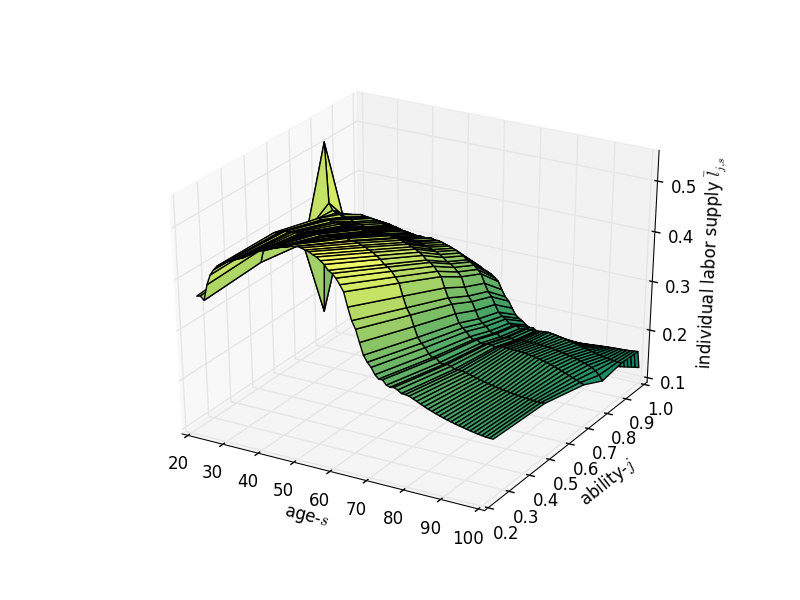
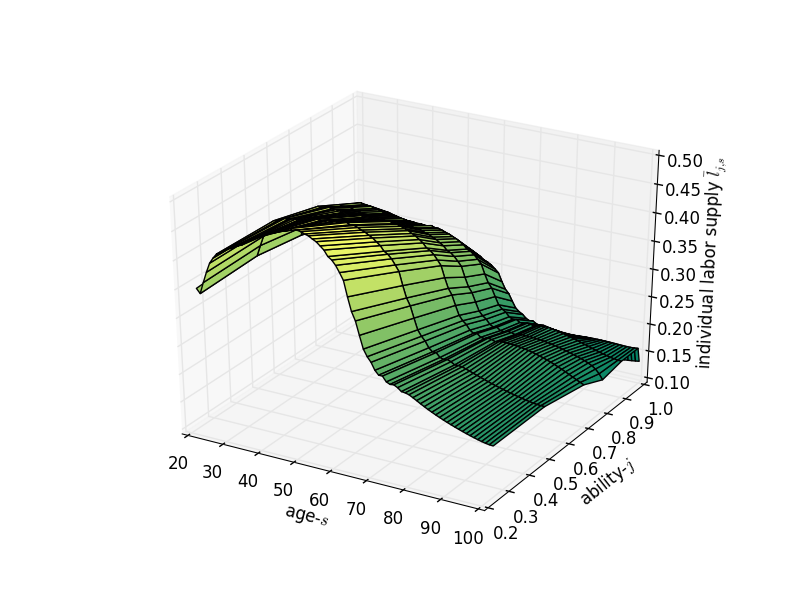
created labor comparison chart

Changed region(s): [[0.25, 0.24, 0.875, 0.75], [0.8125, 0.24, 0.875, 0.42]]

diff --git a/Python/OUTPUT/Nothing/graph_labdist.py b/Python/OUTPUT/Nothing/graph_labdist.py
@@ -13,6 +13,10 @@ variables = pickle.load(open("initial_guesses_for_SS.pkl", "r"))
 for key in variables:
     globals()[key] = variables[key]
 
+variables = pickle.load(open("labor_data_moments.pkl", "r"))
+for key in variables:
+    globals()[key] = variables[key]
+
 Kssmat = solutions[:S*J].reshape(S, J)
 Lssmat = solutions[S*J:2*S*J].reshape(S, J)
 
@@ -44,5 +48,9 @@ plt.savefig('labor_dist')
 
 onedlab = (Lssmat * bin_weights).sum(1)
 fig6 = plt.figure()
-plt.plot(np.arange(80)+20, onedlab)
-plt.savefig('lab_1d')
+plt.plot(np.arange(80)+20, onedlab, label='Model', color='black', linestyle='--')
+plt.plot(np.arange(80)+20, labor_dist_data, label='Data', color='black', linestyle='-')
+plt.legend()
+plt.ylabel(r'individual labor supply $\bar{l}_{s}$')
+plt.xlabel(r'age-$s$')
+plt.savefig('labor_dist_comparison')
